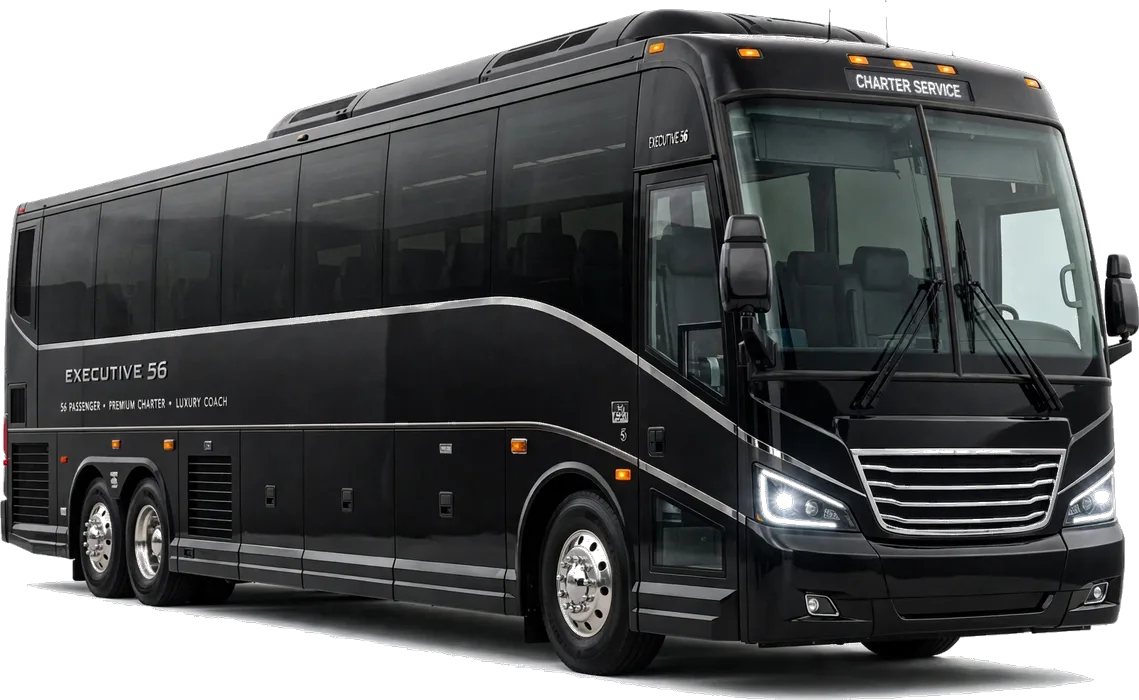
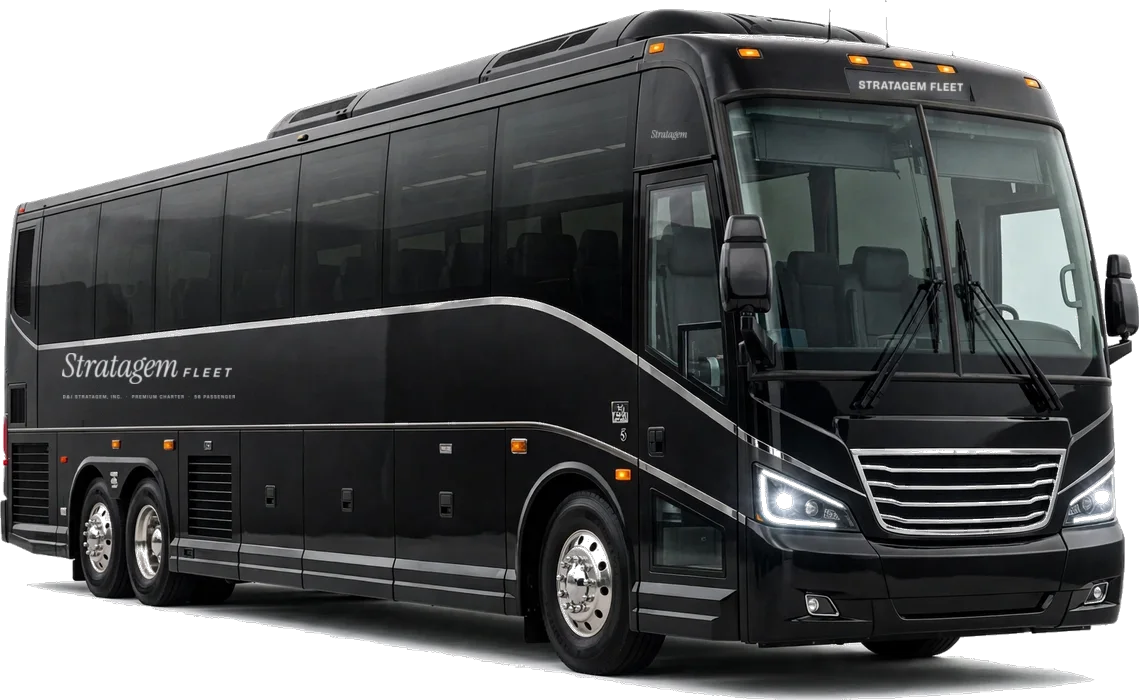
Rebrand Fleet vehicle images and fit them inside their cards
Manufacturer badges on the sedan, SUV, Sprinter, and minibus are replaced
with a chrome Stratagem Fleet badge (oval on the minibus, to fill its
housing); the Maybach hood ornament and Cadillac crest are painted out.
Coach, minibus, and Sprinter carry Stratagem Fleet lettering in the site's
Instrument Serif and Bricolage faces, and the coach's destination sign and
door now read Stratagem. Card images are sized inside the 16:9 frame so the
taller Sprinter is no longer clipped.

Changed region(s): [[0.0307, 0.51, 0.2151, 0.6], [0.7375, 0.09, 0.8604, 0.15], [0.5531, 0.18, 0.6146, 0.21]]

diff --git a/src/pages/Fleet.jsx b/src/pages/Fleet.jsx
@@ -256,7 +256,7 @@ export default function Fleet() {
                       src={v.image}
                       alt={`Representative ${v.name.toLowerCase()}`}
                       loading="lazy"
-                      className="max-h-full w-[92%] object-contain object-bottom transition-transform duration-700 group-hover:scale-[1.04]"
+                      className="absolute inset-x-[4%] bottom-[4%] h-[88%] w-[92%] object-contain object-bottom transition-transform duration-700 group-hover:scale-[1.04]"
                     />
                   </div>
                   <figcaption className="mono-label mt-2 text-[0.6rem] text-steel/70">Representative image</figcaption>
